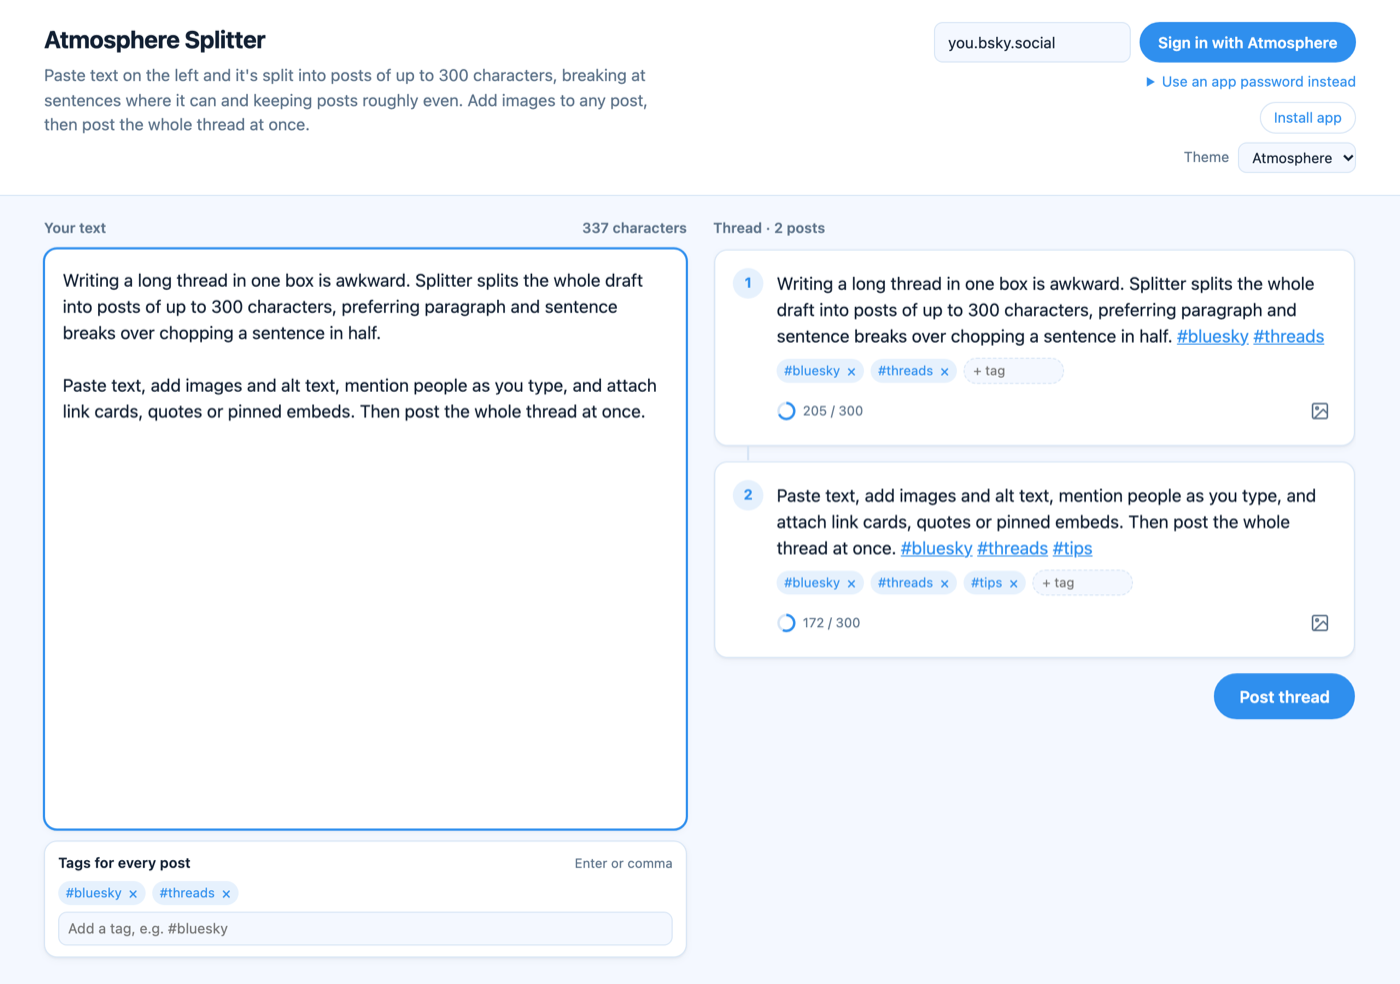
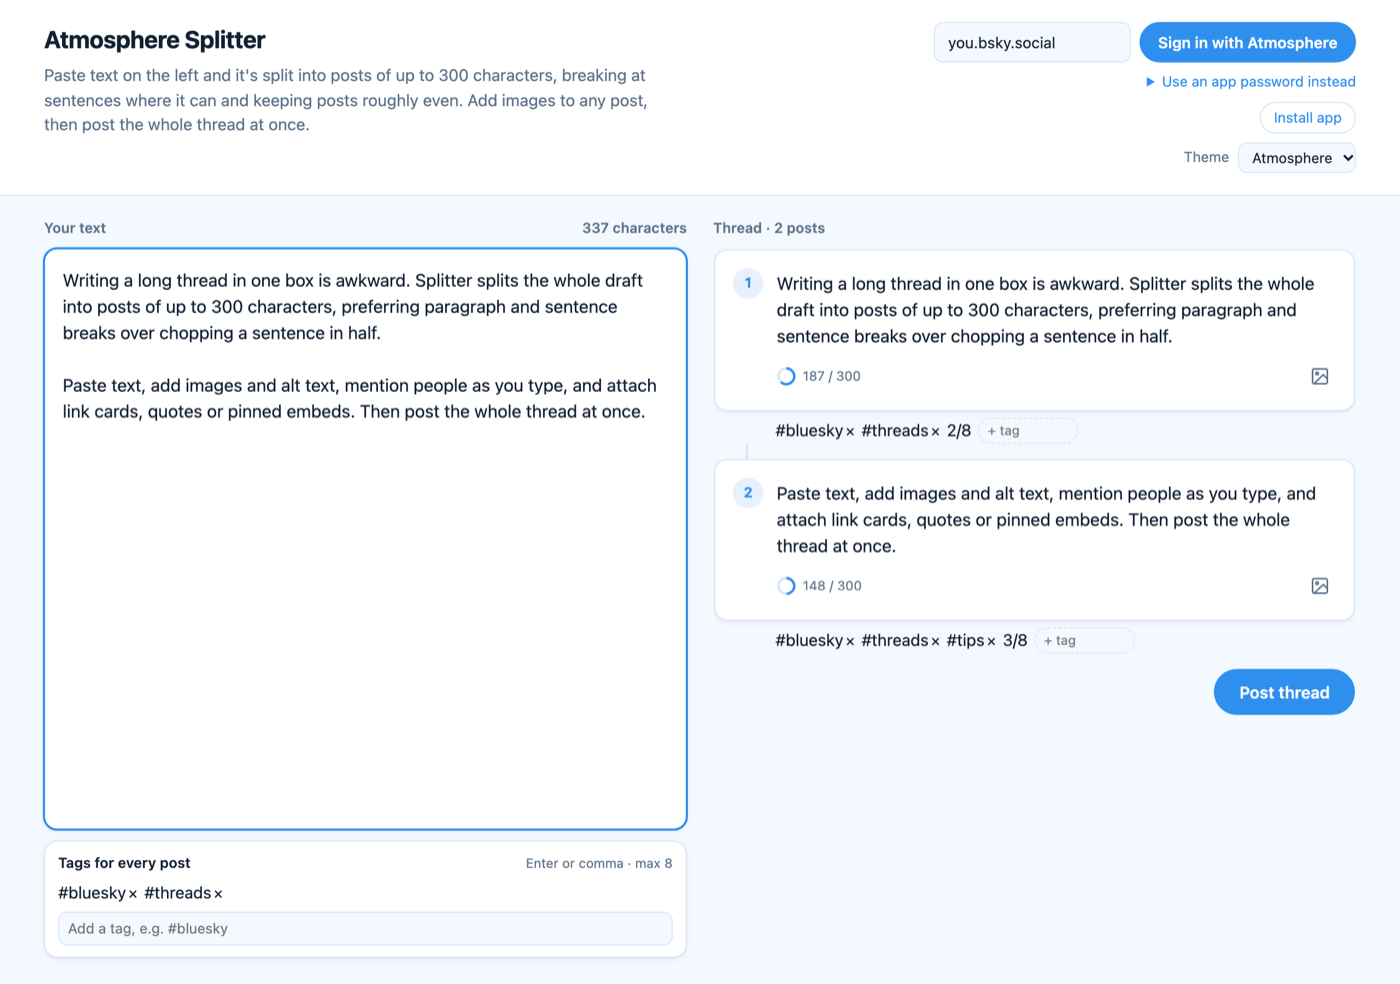
Send tags out-of-band in record.tags
Attach tags as `app.bsky.feed.post.tags` instead of appending them to
the post text. The body stays exactly what the user typed, so tags no
longer consume the 300-character budget or emit duplicate hashtag
facets, and the split no longer reserves space for a suffix.

Tags are still composed from thread tags plus per-post additions minus
per-post removals, deduplicated case-insensitively; hashtags already in
the body stay body facets and are not repeated in `tags`. Thread keys
and `threadSignature()` include the tag sets so posted state still
tracks the preview, and the guard is now the lexicon's 8-tag limit
instead of the over-300 case, which can no longer happen.

Move the tag pills under the white post card so a long tag row does not
crowd the character ring, show an `n/8` count, and keep published tags
visible on prior cards after Continue. Cache bumped to v11.

diff --git a/index.html b/index.html
@@ -131,6 +131,8 @@
     border-radius: 999px; background: var(--accent-soft); color: var(--accent);
     font-size: 12px; line-height: 1.5;
   }
+  .tag-count { font-size: 11px; color: var(--muted); }
+  .tag-count.over { color: var(--warn); font-weight: 600; }
   .chip button {
     padding: 0 0 0 2px; border: none; background: transparent; color: inherit;
     font-size: 14px; line-height: 1; cursor: pointer;
@@ -141,13 +143,17 @@
     border: 1px solid var(--border); border-radius: 8px; background: var(--bg); color: var(--text);
   }
   .tag-input:focus, .tag-add:focus { outline: 2px solid var(--accent); outline-offset: -1px; }
-  .post-tags { display: flex; flex-wrap: wrap; align-items: center; gap: 6px; margin-top: 8px; }
+  .post-tags {
+    display: flex; flex-wrap: wrap; align-items: center; gap: 6px;
+    padding: 0 16px 0 56px;
+  }
   .post-tags .chips { margin: 0; }
   .post-tags .tag-add {
     width: 92px; padding: 2px 8px; border-style: dashed; border-radius: 999px;
     font-size: 12px; color: var(--muted);
   }
   .post-tags .tag-add:focus { color: var(--text); }
+  .prior-wrap .post-tags { opacity: 0.7; }
   .fields { display: flex; gap: 8px; flex-wrap: wrap; justify-content: flex-end; align-items: center; }
   .fields > input {
     width: 180px; padding: 7px 12px; font: inherit; font-size: 14px;
@@ -185,7 +191,11 @@
     background: var(--panel); border: 1px solid var(--border); border-radius: 12px;
     box-shadow: var(--shadow); padding: 16px;
   }
-  .post:not(:last-child)::after {
+  .post-wrap {
+    position: relative; display: flex; flex-direction: column; gap: 6px;
+    min-width: 0;
+  }
+  .post-wrap:not(:last-child)::after {
     content: ''; position: absolute; left: 29px; top: 100%; width: 2px; height: 14px; background: var(--border);
   }
   .num {
@@ -410,7 +420,7 @@
     <div class="tags-panel">
       <div class="tags-head">
         <label for="threadTagInput">Tags for every post</label>
-        <span class="tags-hint">Enter or comma</span>
+        <span class="tags-hint">Enter or comma · max 8</span>
       </div>
       <div class="chips" id="threadTagChips"></div>
       <input id="threadTagInput" class="tag-input" placeholder="Add a tag, e.g. #bluesky"
@@ -1234,22 +1244,24 @@ async function postThread() {
   if (busy) return;
   if (renderTimer) render();  // pick up any typing still waiting to re-split
   const posts = finalPosts();
-  if (posts.some(p => glen(p) > LIMIT)) {
-    threadMsg.textContent = 'A post is over 300 characters. Remove a tag or shorten the text.';
+  const tags = tagSets();
+  if (tags.some(t => t.length > MAX_TAGS)) {
+    threadMsg.textContent = `A post can have at most ${MAX_TAGS} tags. Remove one or more tags.`;
     return;
   }
   busy = true;
   threadMsg.textContent = 'Signing in…';
   try {
     // Set up the thread first, so a sign-in failure has somewhere to be reported.
-    const key = posts.join('\0');
+    const key = posts.map((p, i) => `${p}\0${tags[i].join('\u0001')}`).join('\0');
     if (!thread || thread.key !== key) {
       thread = {
-        key, posts, refs: [], root: continuation?.root || null,
+        key, posts, tags, refs: [], root: continuation?.root || null,
         parent: continuation?.parent || null,
       };
       if (!continuation) history = [];  // a fresh thread, not an extension
     }
+    thread.tags = tags;
     thread.error = null;
     const auth = await getAuth();
     const n = thread.posts.length, done = thread.refs.length;
@@ -1265,6 +1277,7 @@ async function postThread() {
       const dids = await resolveMentions(text, auth);
       const f = facets(text, dids);
       if (f.length) record.facets = f;
+      if (thread.tags?.[i]?.length) record.tags = thread.tags[i];
       if (i > 0) {
         record.reply = { root: thread.root || thread.refs[0], parent: thread.refs[i - 1] };
       } else if (thread.parent) {
@@ -1327,7 +1340,7 @@ const media = [];
 // losing the embed. Like media, a pin follows the post slot, and the preview shows where it sits.
 const pins = [];
 // Tags: thread-wide tags apply to every post; per-post additions and removals are indexed by
-// post slot, like media and pins. Tags are appended to the post text so facets() handles them.
+// post slot, like media and pins. Tags are sent out-of-band in record.tags, not appended to text.
 let threadTags = [];              // display strings without '#'
 const postTagAdds = [];           // per post: tags added just to that post
 const postTagRemovals = [];       // per post: thread tags removed from that post
@@ -1336,7 +1349,7 @@ const threadTagInput = document.getElementById('threadTagInput');
 const threadTagChips = document.getElementById('threadTagChips');
 const tagKey = tag => tag.toLowerCase();
 
-const liveThread = () => (thread && thread.key === finalPosts().join('\0') ? thread : null);
+const liveThread = () => (thread && thread.key === threadSignature() ? thread : null);
 
 function normalizeTag(raw) {
   let tag = String(raw).trim().replace(/^#+/, '').replace(/[.,;:!?()]+$/, '');
@@ -1367,31 +1380,35 @@ function effectiveTags(i) {
   return tags;
 }
 
-// Tags already present in the body are not appended again; body hashtags stay user-owned text.
-function appendedTags(i) {
+// Out-of-band tags become record.tags, not text facets. Tags already present in the body are
+// left to the body facet and are not duplicated in the tags array.
+function outOfBandTags(i) {
   const present = bodyTagKeys(currentPosts[i] || '');
   return effectiveTags(i).filter(t => !present.has(tagKey(t)));
 }
 
-function tagSuffix(i) {
-  const tags = appendedTags(i);
-  return tags.length ? ' ' + tags.map(t => '#' + t).join(' ') : '';
-}
-
-const finalPost = i => (currentPosts[i] || '') + tagSuffix(i);
-const finalPosts = () => currentPosts.map((_, i) => finalPost(i));
+const MAX_TAGS = 8;  // app.bsky.feed.post.tags maxLength
+const finalPost = i => currentPosts[i] || '';
+const finalPosts = () => currentPosts.slice();
+const tagSets = () => currentPosts.map((_, i) => outOfBandTags(i));
+const threadSignature = () => {
+  const tags = tagSets();
+  return finalPosts().map((p, i) => `${p}\0${tags[i].join('\u0001')}`).join('\0');
+};
 
 function tagChip(tag, onRemove) {
   const chip = document.createElement('span');
   chip.className = 'chip';
   chip.append(`#${tag}`);
-  const remove = document.createElement('button');
-  remove.type = 'button';
-  remove.textContent = '×';
-  remove.title = `Remove #${tag}`;
-  remove.setAttribute('aria-label', `Remove #${tag}`);
-  remove.onclick = onRemove;
-  chip.append(remove);
+  if (onRemove) {
+    const remove = document.createElement('button');
+    remove.type = 'button';
+    remove.textContent = '×';
+    remove.title = `Remove #${tag}`;
+    remove.setAttribute('aria-label', `Remove #${tag}`);
+    remove.onclick = onRemove;
+    chip.append(remove);
+  }
   return chip;
 }
 
@@ -1401,12 +1418,15 @@ function renderThreadTags() {
 
 function renderPostTags(container, i) {
   container.replaceChildren();
-  const tags = appendedTags(i);
+  const tags = outOfBandTags(i);
   if (tags.length) {
     const chips = document.createElement('div');
     chips.className = 'chips';
     for (const tag of tags) chips.append(tagChip(tag, () => removePostTag(i, tag)));
-    container.append(chips);
+    const count = document.createElement('span');
+    count.className = `tag-count${tags.length > MAX_TAGS ? ' over' : ''}`;
+    count.textContent = `${tags.length}/${MAX_TAGS}`;
+    container.append(chips, count);
   }
   const add = document.createElement('input');
   add.type = 'text';
@@ -1470,7 +1490,7 @@ function addPostTag(i, raw) {
   const present = bodyTagKeys(currentPosts[i] || '');
   for (const tag of tags) {
     const key = tagKey(tag);
-    if (present.has(key)) continue;  // already in the body, so appending it would duplicate
+    if (present.has(key)) continue;  // already a body hashtag, so it stays a facet
     if (globalKeys.has(key)) {
       const removals = (postTagRemovals[i] ||= []);
       for (let j = removals.length - 1; j >= 0; j--) if (tagKey(removals[j]) === key) removals.splice(j, 1);
@@ -1544,7 +1564,9 @@ function startContinue() {
   if (busy || !t || t.error || t.posts.length !== t.refs.length || !t.refs.length) return;
   const root = t.root || t.refs[0];
   const parent = t.refs[t.refs.length - 1];
-  history = [...history, ...t.posts.map((text, i) => ({ text, ref: t.refs[i] }))];
+  history = [...history, ...t.posts.map((text, i) => ({
+    text, ref: t.refs[i], tags: (t.tags || [])[i] || [],
+  }))];
   continuation = { root, parent };
   resetComposer();
   render();
@@ -1572,7 +1594,7 @@ function updateThreadUI() {
   const t = liveThread();
   const done = t ? t.refs.length : 0;
   const complete = !!(t && n && done === n && !t.error);
-  const over = finalPosts().some(p => glen(p) > LIMIT);
+  const tooManyTags = tagSets().some(tags => tags.length > MAX_TAGS);
   statusEls.forEach((el, i) => {
     el.textContent = i < done ? '✓ Posted' : t?.error && i === done ? '✗ Failed' : '';
     el.className = i < done ? 'ok' : 'err';
@@ -1580,7 +1602,7 @@ function updateThreadUI() {
   postBtn.hidden = complete;
   afterPost.hidden = !complete;
   newThreadBtn.disabled = continueBtn.disabled = busy;
-  postBtn.disabled = busy || !n || done === n || over;
+  postBtn.disabled = busy || !n || done === n || tooManyTags;
   postBtn.textContent = done === n && n ? 'Posted'
     : done ? `Resume (${done} of ${n} posted)`
     : continuation ? `Post ${n > 1 ? 'replies' : 'reply'}` : 'Post thread';
@@ -1589,9 +1611,9 @@ function updateThreadUI() {
   if (t?.error) {
     threadMsg.innerHTML = '<span class="err"></span>';
     threadMsg.firstChild.textContent = t.error;
-  } else if (over) {
+  } else if (tooManyTags) {
     threadMsg.innerHTML = '<span class="err"></span>';
-    threadMsg.firstChild.textContent = 'A post is over 300 characters. Remove a tag or shorten the text.';
+    threadMsg.firstChild.textContent = `A post can have at most ${MAX_TAGS} tags. Remove one or more tags.`;
   } else if (complete) {
     const root = t.root || t.refs[0];
     const a = document.createElement('a');
@@ -2066,12 +2088,24 @@ const ICON = {
 
 // An already-published post from an earlier segment, shown read-only while continuing.
 function priorCard(entry) {
+  const wrap = document.createElement('div');
+  wrap.className = 'post-wrap prior-wrap';
   const card = document.createElement('div');
   card.className = 'post prior';
   card.innerHTML = '<div class="num">✓</div><div class="body"><div class="post-text"></div>' +
     '<div class="post-foot"><span class="ok">Posted</span></div></div>';
   richText(card.querySelector('.post-text'), entry.text, mentionDids);
-  return card;
+  wrap.append(card);
+  if (entry.tags?.length) {
+    const row = document.createElement('div');
+    row.className = 'post-tags static';
+    const chips = document.createElement('div');
+    chips.className = 'chips';
+    for (const tag of entry.tags) chips.append(tagChip(tag, null));
+    row.append(chips);
+    wrap.append(row);
+  }
+  return wrap;
 }
 
 function render() {
@@ -2079,9 +2113,7 @@ function render() {
   renderTimer = null;
   const text = input.value;
   totalEl.textContent = text.trim() ? `${glen(text.trim())} characters` : '';
-  const threadSuffix = threadTags.length ? ' ' + threadTags.map(t => '#' + t).join(' ') : '';
-  const bodyLimit = Math.max(1, LIMIT - glen(threadSuffix));
-  const posts = split(text, bodyLimit);
+  const posts = split(text);
   currentPosts = posts;
   statusEls = [];
   const t = liveThread();
@@ -2110,7 +2142,7 @@ function render() {
     const imgs = media[i] || [];
     const card = document.createElement('div');
     card.className = 'post';
-    card.innerHTML = `<div class="num">${i + 1}</div><div class="body"><div class="post-text"></div><div class="post-tags"></div><div class="thumbs"></div><div class="card-slot"></div>
+    card.innerHTML = `<div class="num">${i + 1}</div><div class="body"><div class="post-text"></div><div class="thumbs"></div><div class="card-slot"></div>
       <div class="post-foot"><span class="count${len > LIMIT ? ' over' : ''}">
         <svg class="ring" viewBox="0 0 20 20"><circle class="track" cx="10" cy="10" r="8"/>
         <circle class="fill" cx="10" cy="10" r="8" pathLength="100" stroke-dasharray="${Math.min(100, len / LIMIT * 100)} 100"/></svg>
@@ -2118,7 +2150,6 @@ function render() {
       <span class="actions"><span></span><button class="icon add" title="Add image" aria-label="Add image">${ICON.image}</button></span></div></div>
       <input type="file" accept="image/*" multiple hidden>`;
     richText(card.querySelector('.post-text'), postText, mentionDids);
-    renderPostTags(card.querySelector('.post-tags'), i);
     statusEls.push(card.querySelector('.actions span'));
 
     const fileIn = card.querySelector('input[type=file]');
@@ -2147,7 +2178,13 @@ function render() {
     // A preview is only possible when the post has no images: images win in the record.
     if (!imgs.length) renderPreview(card.querySelector('.card-slot'), i, postText);
 
-    postsEl.append(card);
+    const wrap = document.createElement('div');
+    wrap.className = 'post-wrap';
+    const tagsRow = document.createElement('div');
+    tagsRow.className = 'post-tags';
+    renderPostTags(tagsRow, i);
+    wrap.append(card, tagsRow);
+    postsEl.append(wrap);
   });
   primeMentions(posts);
   renderThreadTags();

diff --git a/sw.js b/sw.js
@@ -1,7 +1,7 @@
 // Caches the app shell so Splitter opens offline.
 // Cross-origin requests are never intercepted: posting, identity resolution and link
 // previews must always hit the network, and a cached POST would be a lie.
-const VERSION = 'splitter-v10';
+const VERSION = 'splitter-v11';
 const SHELL = [
   './',
   './index.html',

diff --git a/CLAUDE.md b/CLAUDE.md
@@ -13,7 +13,7 @@ Splits pasted text into a thread and posts it to Bluesky. See `README.md`.
 - A `bsky.app/profile/…/post/…` URL is a quote, not an external card: resolve it to `{ uri, cid }` through `public.api.bsky.app` (`getPosts`) and post `app.bsky.embed.record`. Cache by URL and reuse the resolved CID at post time; quoting is still an `app.bsky.feed.post` create, so `app.bsky.authCreatePosts` already covers it.
 - Pinned previews live in `pins[i]` by post slot, like `media[i]`, and the preview shows which slot holds one. `embedFor(text, i, auth)` uses the URL in the text first, then the pin; images still win. Clear pins in `resetComposer`, and keep an Unpin path for a pinned preview whose fetch failed.
 - A continuation keeps `root` (the original first ref) and `parent` (the last published ref) on the thread; `refs[0]` is only the root of a first segment. A failed segment must keep its continuation state so Resume replies from the same parent.
-- Inline tags: `currentPosts` stays body-only; `finalPosts()` appends thread and per-post tags and is the source for counts, thread keys and posting. Thread tags reserve space in `split()`. Per-post tags that push a post over 300 show the over state and block posting. Per-post additions/removals are indexed like media/pins and clear on New/Continue; body hashtags are user-owned and never duplicated in the suffix.
+- Inline tags are out-of-band: `record.tags` (max 8 per post, 64 graphemes each), never appended to `text` or facets. `currentPosts`/`finalPosts` stay body-only; `tagSets()` and `threadSignature()` include tags for keys and the 8-tag guard. Tag pills live under the white post card; per-post additions/removals are indexed like media/pins and clear on New/Continue. Body hashtags stay facets and are not duplicated in `tags`.
 - Themes are token blocks: built-ins in `index.html` (so `file://` works and the first paint is correct), community themes in `themes/<slug>/theme.json` listed by `themes/index.json`. The picker persists `splitter-theme`; a tiny head script applies it before paint and caches community token CSS under `splitter-theme-css`. Keep `themes/index.json` and theme files network-first in `sw.js`, and do not require an `index.html` edit to add a community theme.
 - Discuss and get approval before changing direction or architecture; small fixes the user asked for can go straight ahead.
 - The repo is public: never put app passwords, tokens or personal content in committed files. Credentials live only in the user's browser.

diff --git a/README.md b/README.md
@@ -37,13 +37,13 @@ stays plain text instead of failing the post.
 
 ### Tags on every post
 
-![Thread-wide and per-post tag chips in the composer](docs/screenshots/tags.png)
+![Thread-wide and per-post tag pills under the post cards](docs/screenshots/tags.png)
 
-Add tags in the left panel once and they are appended to every post in the thread. In the preview,
-use **+ tag** to add one to a single post, or **×** to remove a thread-wide tag from just that post.
-Tags become normal hashtag facets, count toward the 300-character limit, and the splitter reserves
-space for the thread-wide set. A tag already typed in the post body is not appended again;
-per-post tags that push a post over the limit are flagged and block posting.
+Add tags in the left panel once and they are attached to every post as out-of-band
+`app.bsky.feed.post.tags` — the body text is untouched. In the preview, the pills under each post
+show its tags: use **+ tag** to add one to a single post, or **×** to remove a thread-wide tag from
+just that post. Up to 8 tags per post; tags already typed in the body are not duplicated, and going
+over 8 is flagged and blocks posting.
 
 ### Link previews
 
